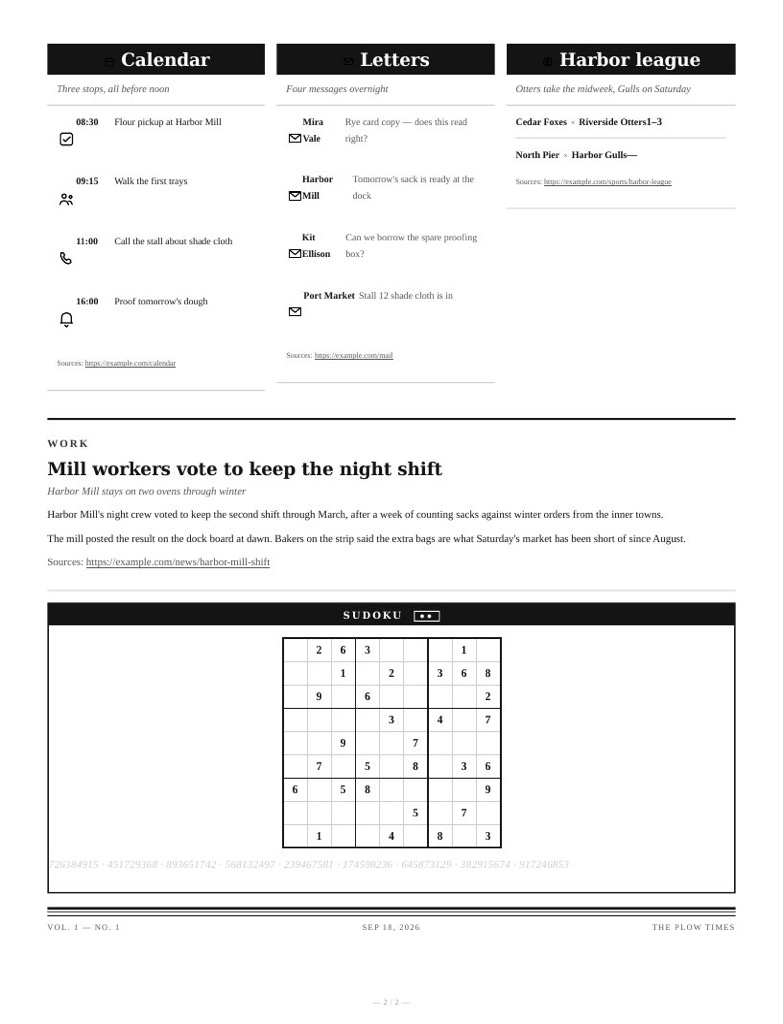
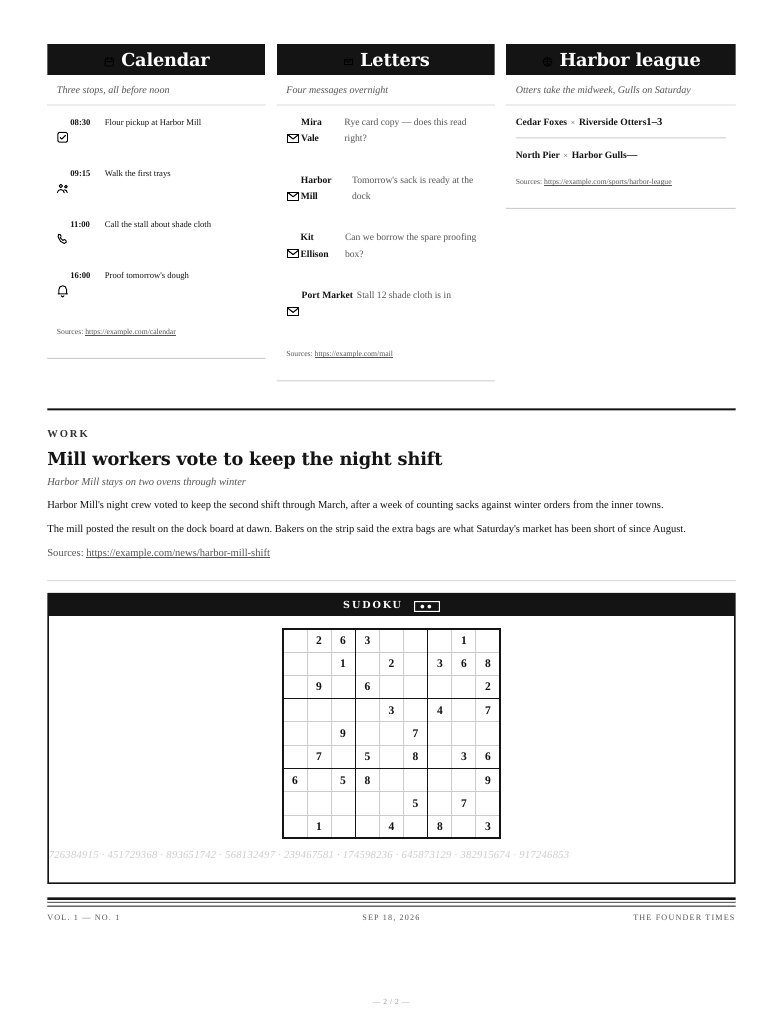
Rename the paper The Founder Times, inspired by Mayfield.
Owner-facing copy, masthead, chat PDF name, and Index thumbs follow the
new title. Repo, image, and AGENT_ID stay as they are.

diff --git a/pt-edition/template.html b/pt-edition/template.html
@@ -3,7 +3,7 @@
 <head>
 <meta charset="utf-8">
 <!--
-  The Plow Times -- the fixed edition layout.
+  The Founder Times -- the fixed edition layout.
 
   This file is deliberately plain: inline CSS, no JavaScript, and no
   external assets loaded AT RENDER TIME -- the one exception, a news
@@ -12,7 +12,7 @@
   before this HTML is even built, so by the time the browser or
   WeasyPrint sees an <img> tag there is nothing left to fetch, same as
   everything else on the page. The renderer substitutes the
-  placeholders (MASTHEAD, DATE, LOCATION, LEAD, PRIORITY_BLOCK,
+  placeholders (MASTHEAD, MASTHEAD_CREDIT, DATE, LOCATION, LEAD, PRIORITY_BLOCK,
   WEATHER_EAR, DESKS_INLINE, SECTIONS, SUDOKU,
   and PAGE_CLASS/PRIORITY/WEATHER/CALENDAR/MAIL/SPORTS/SIDEBAR for older
   templates that still read them individually) and escapes every value
@@ -25,7 +25,8 @@
   out) on a real run. Every color below is a flat CSS value for the same
   reason: nothing here is fetched at render time.
 
-  The masthead is drawn from PT_MASTHEAD (default "THE PLOW TIMES"),
+  The masthead is drawn from PT_MASTHEAD (default "THE FOUNDER TIMES")
+  with the credit line PT_MASTHEAD_CREDIT (default "inspired by Mayfield"),
   resolved by the renderer -- not from edition.json, so the chat edition
   and the printed page can never show two different names. Layout edits
   here survive redeploys: the deploy hook copies a skill into the
@@ -145,10 +146,17 @@
        only (WeasyPrint doesn't synthesize bold for it), so size and
        letter-spacing carry the presence a bold weight would give. */
     font-family: "Big Caslon", Didot, "Bodoni MT", "Playfair Display", "Times New Roman", Georgia, serif;
-    font-size: 58px; font-weight: 900; letter-spacing: 0.5px;
+    font-size: 48px; font-weight: 900; letter-spacing: 0.5px;
     margin: 0;
     line-height: 0.95;
     color: var(--ink);
+  }
+  .nameplate-credit {
+    margin: 6px 0 0;
+    font-family: Georgia, "Times New Roman", serif;
+    font-size: 9px; font-style: italic; font-weight: 400;
+    letter-spacing: 0.8px;
+    color: var(--ink-soft);
   }
   .ornament {
     display: flex; align-items: center; gap: 10px;
@@ -565,7 +573,7 @@
   <hr class="rule-top">
   <div class="masthead-row">
     <div class="ear ear-left"><span class="ear-box">Every claim<br>carries its source</span></div>
-    <div class="masthead-cell"><h1 class="nameplate">{{MASTHEAD}}</h1></div>
+    <div class="masthead-cell"><h1 class="nameplate">{{MASTHEAD}}</h1><p class="nameplate-credit">{{MASTHEAD_CREDIT}}</p></div>
     <div class="ear ear-right">{{WEATHER_EAR}}</div>
   </div>
   <div class="ornament"><span class="orn-rule"></span><svg class="orn-diamond" viewBox="0 0 10 10" width="8" height="8" aria-hidden="true"><path d="M5 0 L10 5 L5 10 L0 5 Z" fill="currentColor"/></svg><span class="orn-rule"></span></div>

diff --git a/tests/test_render_edition.py b/tests/test_render_edition.py
@@ -5,7 +5,7 @@ import json
 
 import pytest
 
-from conftest import load_module
+from conftest import ROOT, load_module
 
 render = load_module("render_edition", "pt-edition/scripts/render_edition.py")
 
@@ -365,11 +365,18 @@ class TestMasthead:
         monkeypatch.setenv("PT_MASTHEAD", "   ")
         assert render.masthead() == render.DEFAULT_MASTHEAD
 
+    def test_printed_page_carries_the_mayfield_credit(self):
+        template = (ROOT / "pt-edition" / "template.html").read_text()
+        page = render.render_html(edition(), render.DEFAULT_MASTHEAD, template)
+        assert render.DEFAULT_MASTHEAD in page
+        assert render.DEFAULT_MASTHEAD_CREDIT in page
+        assert "nameplate-credit" in page
+
 
 class TestChat:
     def test_header_and_section(self):
         text = render.render_chat(edition(), render.DEFAULT_MASTHEAD)
-        assert text.startswith("THE PLOW TIMES \u2014 Sep 11, 2026")
+        assert text.startswith("THE FOUNDER TIMES \u2014 Sep 11, 2026")
         assert "\u25b8 Weather in Sao Paulo" in text
         assert "Sources: https://example.com/weather" in text
 
@@ -619,7 +626,7 @@ class TestHtml:
     def test_location_in_header_and_placeholder(self):
         data = edition(location="Sao Paulo")
         text = render.render_chat(data, render.DEFAULT_MASTHEAD)
-        assert text.startswith("THE PLOW TIMES \u2014 Sep 11, 2026 \u2014 Sao Paulo")
+        assert text.startswith("THE FOUNDER TIMES \u2014 Sep 11, 2026 \u2014 Sao Paulo")
         page = render.render_html(data, "The Daily", "{{LOCATION}}|{{SECTIONS}}")
         assert page.startswith("Sao Paulo|")
 
@@ -663,7 +670,7 @@ class TestMain:
     def test_prints_chat_to_stdout(self, tmp_path, capsys):
         path = write(tmp_path, edition())
         assert render.main([str(path)]) == 0
-        assert "THE PLOW TIMES" in capsys.readouterr().out
+        assert "THE FOUNDER TIMES" in capsys.readouterr().out
 
     def test_writes_chat_file(self, tmp_path):
         path = write(tmp_path, edition())

diff --git a/tests/test_post_to_chat.py b/tests/test_post_to_chat.py
@@ -29,16 +29,16 @@ class TestComposePayload:
         assert (
             post.attachment_filename(
                 "/var/lib/hermes/pt/run/edition.pdf",
-                "The-Plow-Times-2026-09-17.pdf",
+                "The-Founder-Times-2026-09-17.pdf",
             )
-            == "The-Plow-Times-2026-09-17.pdf"
+            == "The-Founder-Times-2026-09-17.pdf"
         )
         with pytest.raises(SystemExit, match="filename"):
             post.attachment_filename("edition.pdf", "../secret.pdf")
 
     def test_text_only_when_no_pdf(self):
-        payload = post.compose_payload("THE PLOW TIMES")
-        assert payload == {"body": "THE PLOW TIMES"}
+        payload = post.compose_payload("THE FOUNDER TIMES")
+        assert payload == {"body": "THE FOUNDER TIMES"}
 
     def test_text_only_refuses_blank_stdin(self):
         with pytest.raises(SystemExit, match="no edition text"):
@@ -73,8 +73,8 @@ class TestTextFileFlag:
 
     def test_reads_the_edition_text_from_a_file(self, tmp_path):
         f = tmp_path / "edition.chat.txt"
-        f.write_text("THE PLOW TIMES\nfront page\n", encoding="utf-8")
-        assert post.read_text_file(str(f)) == "THE PLOW TIMES\nfront page"
+        f.write_text("THE FOUNDER TIMES\nfront page\n", encoding="utf-8")
+        assert post.read_text_file(str(f)) == "THE FOUNDER TIMES\nfront page"
 
     def test_missing_file_is_refused_by_name(self, tmp_path):
         with pytest.raises(SystemExit, match="text-file"):

diff --git a/tests/test_repo_contract.py b/tests/test_repo_contract.py
@@ -549,7 +549,7 @@ class TestSoul:
         assert "chat_status.py --wait" in research
         assert "chat_status.py --soon" in soul
         assert "interim_assistant_messages: false" in soul
-        assert "The-Plow-Times-" in edition
+        assert "The-Founder-Times-" in edition
         assert "--filename" in edition
         script = ROOT / "pt-shared" / "scripts" / "chat_status.py"
         assert script.is_file()
@@ -754,7 +754,7 @@ class TestSkills:
         # A restyle that drops a placeholder silently drops that desk from
         # the page. The renderer fills these; the template must keep them.
         template = (ROOT / "pt-edition" / "template.html").read_text()
-        for slot in ("MASTHEAD", "DATE", "LOCATION", "LEAD", "PRIORITY_BLOCK",
+        for slot in ("MASTHEAD", "MASTHEAD_CREDIT", "DATE", "LOCATION", "LEAD", "PRIORITY_BLOCK",
                      "WEATHER_EAR", "DESKS_INLINE", "SECTIONS", "SUDOKU"):
             assert "{{" + slot + "}}" in template, f"template lost {{{{{slot}}}}}"
 
@@ -765,6 +765,7 @@ class TestSkills:
         # and news in columns.
         template = (ROOT / "pt-edition" / "template.html").read_text()
         assert "nameplate" in template
+        assert "nameplate-credit" in template
         assert "rule-double" in template
         assert "folio" in template
         assert "dropcap" in template

diff --git a/pt-edition/scripts/render_edition.py b/pt-edition/scripts/render_edition.py
@@ -43,7 +43,8 @@ from datetime import date
 sys.path.insert(0, str(pathlib.Path(__file__).resolve().parent))
 import sudoku  # noqa: E402 -- sibling script beside this one
 
-DEFAULT_MASTHEAD = "THE PLOW TIMES"
+DEFAULT_MASTHEAD = "THE FOUNDER TIMES"
+DEFAULT_MASTHEAD_CREDIT = "inspired by Mayfield"
 KINDS = ("section", "assignment")
 # Standing newspaper desks. weather and calendar always run; mail only when
 # pt/config.json says mail.configured. news is every owner-chosen section
@@ -97,6 +98,12 @@ _MONTHS = ("Jan", "Feb", "Mar", "Apr", "May", "Jun",
 
 def masthead():
     return (os.environ.get("PT_MASTHEAD") or DEFAULT_MASTHEAD).strip() or DEFAULT_MASTHEAD
+
+
+def masthead_credit():
+    if "PT_MASTHEAD_CREDIT" in os.environ:
+        return os.environ.get("PT_MASTHEAD_CREDIT", "").strip()
+    return DEFAULT_MASTHEAD_CREDIT
 
 
 def pretty_date(raw):
@@ -1159,6 +1166,7 @@ def render_html(edition, name, template_text):
     return (
         template_text
         .replace("{{MASTHEAD}}", html.escape(name))
+        .replace("{{MASTHEAD_CREDIT}}", html.escape(masthead_credit()))
         .replace("{{DATE}}", html.escape(pretty_date(edition["date"])))
         .replace("{{LOCATION}}", location)
         .replace("{{PAGE_CLASS}}", page_class)

diff --git a/pt-print/scripts/print_edition.py b/pt-print/scripts/print_edition.py
@@ -247,7 +247,7 @@ def ship(pdf_path, printer, date, call_tool, sleep=time.sleep):
                 "argv": ["lp", "-d", printer, abs_pdf],
                 "network": True,
                 "read_paths": [abs_pdf],
-                "goal": "Print today's Plow Times edition",
+                "goal": "Print today's Founder Times edition",
             },
         ),
         poll,
@@ -261,7 +261,7 @@ def ship(pdf_path, printer, date, call_tool, sleep=time.sleep):
                 {
                     "app": "System Events",
                     "script": f"do shell script {json.dumps(cmd)}",
-                    "goal": "Print today's Plow Times edition (sandboxed lp failed)",
+                    "goal": "Print today's Founder Times edition (sandboxed lp failed)",
                 },
             ),
             poll,

diff --git a/pt-shared/scripts/pt_config_gate.py b/pt-shared/scripts/pt_config_gate.py
@@ -1,5 +1,5 @@
 #!/usr/bin/env python3
-"""Shared structural gate for the pt-config (the Plow Times' pt/config.json).
+"""Shared structural gate for the pt-config (the Founder Times' pt/config.json).
 
 This is the SINGLE shared definition of "installed" for the pt-config. It runs
 in the agent container, invoked as:

diff --git a/pt-dashboard/scripts/register_crons.py b/pt-dashboard/scripts/register_crons.py
@@ -1,5 +1,5 @@
 #!/usr/bin/env python3
-"""Register the Plow Times' crons, idempotently, from the topic store.
+"""Register the Founder Times' crons, idempotently, from the topic store.
 
 Why this exists at all. `hermes cron` persists jobs to
 /var/lib/hermes/cron/jobs.json, which no rebuild replays -- so a rebuilt

diff --git a/pt-setup/SKILL.md b/pt-setup/SKILL.md
@@ -92,7 +92,7 @@ whole visible reply to a bare "Oi" was
 > The message is "Oi" — a bare greeting, DRAFT:none. This is step 1a:
 > send the opener in Portuguese, then stop.
 >
-> Sou o The Plow Times, seu jornal. A que horas quer o jornal da manhã?
+> Sou o The Founder Times (inspired by Mayfield), seu jornal. A que horas quer o jornal da manhã?
 > Se não disser, uso 7h.
 
 — the actual opener buried under a paragraph of the model's own reasoning
@@ -120,11 +120,11 @@ ask their name or how they like to work.
 **Opener — send this, then stop and wait.** Copy it. Match the owner's language.
 Portuguese:
 
-> 📰 Oi! Eu sou o The Plow Times, o seu jornal. A que horas você quer ele de manhã? Se não disser nada, mando às 7h.
+> 📰 Oi! Eu sou o The Founder Times (inspired by Mayfield), o seu jornal. A que horas você quer ele de manhã? Se não disser nada, mando às 7h.
 
 English:
 
-> 📰 Hi — I'm The Plow Times, your newspaper. What time should it land each morning? If you don't say, I'll send it at 7:00.
+> 📰 Hi — I'm The Founder Times (inspired by Mayfield), your newspaper. What time should it land each morning? If you don't say, I'll send it at 7:00.
 
 Do not ask their timezone, their name, a profile, or `/help`. The zone comes
 from their Mac, through Latch, when this interview closes.

diff --git a/pt-dashboard/SKILL.md b/pt-dashboard/SKILL.md
@@ -1,9 +1,9 @@
 ---
 name: pt-dashboard
-description: The Plow Times' cron spec — one nightly job per active subscription plus the pruning of stale pt-* jobs — and the idempotent registration that replays them from the topic store. Use when asked to set up, re-register, inspect or repair the paper's crons, after rebuilding the agent's home, and after pt-intake adds or cancels a subscription.
+description: The Founder Times' cron spec — one nightly job per active subscription plus the pruning of stale pt-* jobs — and the idempotent registration that replays them from the topic store. Use when asked to set up, re-register, inspect or repair the paper's crons, after rebuilding the agent's home, and after pt-intake adds or cancels a subscription.
 ---
 
-# The Plow Times — the cron spec
+# The Founder Times — the cron spec
 
 Two shapes plus the paper, all derived from `/var/lib/hermes/pt/topics.json`
 at run time — unlike `ld-dashboard`'s fixed seven rows, this spec is the

diff --git a/pt-shared/SKILL.md b/pt-shared/SKILL.md
@@ -51,7 +51,7 @@ does not, and every run fails on the import.
   did not authenticate)
 - `scripts/post_to_chat.py` — the edition's chat leg: POST the PDF (empty
   body) to the owner's home channel, or the chat text if there is no PDF.
-  `--filename The-Plow-Times-<date>.pdf` is the name shown in chat (the
+  `--filename The-Founder-Times-<date>.pdf` is the name shown in chat (the
   run file stays `edition.pdf` on disk). A successful `--pdf` POST stamps
   `seal_chat_session.py` and then runs `print_edition.py` when the printer
   is configured (best-effort; a print failure does not undo the chat).

diff --git a/pt-edition/SKILL.md b/pt-edition/SKILL.md
@@ -289,7 +289,7 @@ transcript after it is the wall of text they did not ask for.
    plow-chat-platform uses for photo-only sends. Do not pipe
    `edition.chat.txt` into it:
 
-       /var/lib/hermes/skills/pt-shared/scripts/post_to_chat.py --pdf run/<id>/edition.pdf --filename The-Plow-Times-<date>.pdf
+       /var/lib/hermes/skills/pt-shared/scripts/post_to_chat.py --pdf run/<id>/edition.pdf --filename The-Founder-Times-<date>.pdf
 
    Omit `--pdf` **only** when step 1 established that weasyprint is
    genuinely absent — never because your own command failed. In that one
